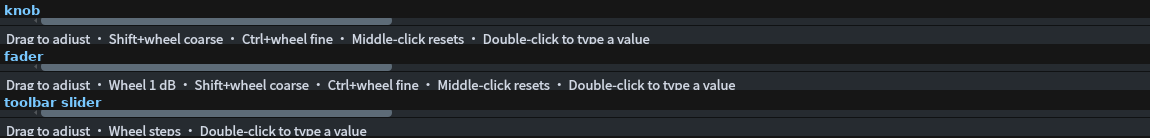
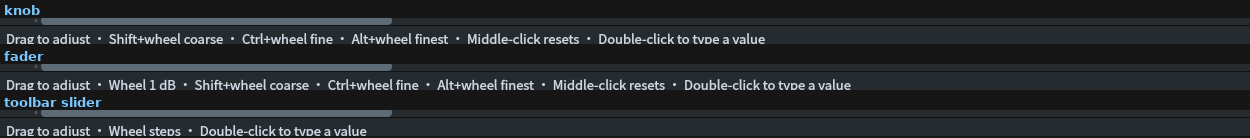
Make Alt+wheel adjust faders instead of ignoring it
determineAdjustmentDelta() returned 0 for Alt as a workaround for systems
that report Alt+wheel as a horizontal scroll, so the finest wheel step was
unavailable on faders while knobs used it. Use 0.05 dB (half of the control
key's step, matching the knob ratio) and handle the horizontal delta in
wheelEvent() instead, which is where the knobs already work around it.

Verified by reading the value tooltip: a plain notch moves 1 dB, an Alt
notch moves 0.05 dB.

diff --git a/src/gui/widgets/Fader.cpp b/src/gui/widgets/Fader.cpp
@@ -175,8 +175,9 @@ void Fader::leaveEvent(QEvent* event)
 QString Fader::statusHint() const
 {
 	return tr("Drag to adjust · Wheel 1 dB · Shift+wheel coarse · "
-			  "%1+wheel fine · Middle-click resets · Double-click to type a value")
-		.arg(UI_CTRL_KEY);
+			  "%1+wheel fine · %2+wheel finest · Middle-click resets · "
+			  "Double-click to type a value")
+		.arg(UI_CTRL_KEY, UI_ALT_KEY);
 }
 
 
@@ -289,7 +290,17 @@ void Fader::mouseReleaseEvent(QMouseEvent* mouseEvent)
 
 void Fader::wheelEvent (QWheelEvent* ev)
 {
-	const int direction = (ev->angleDelta().y() > 0 ? 1 : -1) * (ev->inverted() ? -1 : 1);
+	int delta = ev->angleDelta().y();
+
+	// Alt is a window manager modifier on some systems, so Qt may report the
+	// wheel as a horizontal scroll instead of a vertical one. Fall back to the
+	// horizontal delta so that Alt+wheel still adjusts the fader.
+	if (delta == 0)
+	{
+		delta = ev->angleDelta().x();
+	}
+
+	const int direction = (delta > 0 ? 1 : -1) * (ev->inverted() ? -1 : 1);
 
 	const float increment = determineAdjustmentDelta(ev->modifiers()) * direction;
 
@@ -313,8 +324,10 @@ float Fader::determineAdjustmentDelta(const Qt::KeyboardModifiers & modifiers) c
 	}
 	else if (modifiers & Qt::AltModifier)
 	{
-		// Work around a Qt bug in conjunction with the scroll wheel and the Alt key
-		return 0.f;
+		// Even finer than control, matching the knobs where Alt is the finest
+		// wheel step. It used to return 0 as a workaround for the Qt quirk that
+		// is now handled in wheelEvent().
+		return 0.05f;
 	}
 
 	return 1.f;

diff --git a/src/gui/widgets/FloatModelEditorBase.cpp b/src/gui/widgets/FloatModelEditorBase.cpp
@@ -297,8 +297,8 @@ void FloatModelEditorBase::leaveEvent(QEvent *event)
 QString FloatModelEditorBase::statusHint() const
 {
 	return tr("Drag to adjust · Shift+wheel coarse · %1+wheel fine · "
-			  "Middle-click resets · Double-click to type a value")
-		.arg(UI_CTRL_KEY);
+			  "%2+wheel finest · Middle-click resets · Double-click to type a value")
+		.arg(UI_CTRL_KEY, UI_ALT_KEY);
 }
 
 

diff --git a/doc/ui-ux-tasks.md b/doc/ui-ux-tasks.md
@@ -52,6 +52,7 @@ T0 全部可在一天内完成；T1 每项独立 PR；T2 需要先讨论。
 | T1-1 | 🚧 进行中 | `TrackView` 已改（截图逐像素对比 = 0 差异，主题覆盖测试通过） |
 | T1-10 | ✅ 已实现 | 仅编译验证；tooltip 需在交互式桌面悬停复核 |
 | T1-4 | ✅ 已实现 | 状态栏 + 三类控件悬停提示，截图验证（`t1-4-status-hints.png`） |
+| T1-3 | ✅ 已实现 | Alt+滚轮实测 0.05 dB（普通滚轮 1 dB） |
 
 ### 实施中发现并修正的两个问题
 
@@ -277,13 +278,22 @@ m_actionTextBold->setShortcut(keySequence(Qt::CTRL, Qt::Key_B));
 
 ---
 
-### T1-3 滚轮语义对齐
+### T1-3 滚轮语义对齐（已实现）
 
-**现象**：`Fader::determineAdjustmentDelta` 对 `Alt` 返回 0（`Fader.cpp:283-297`），而 `FloatModelEditorBase` 用 Alt 做"最细"（`FloatModelEditorBase.cpp:355`）。
+**现象**：`Fader::determineAdjustmentDelta` 对 `Alt` 返回 0（完全不响应），而旋钮用 Alt 做"最细"。
 
-**改动点**：`Fader.cpp:283-297` 让 Alt 走 0.1 dB 档（与 Ctrl 同档或更细），并保留 macOS 上 Qt 的 Alt 滚轮 quirk 兼容（参考 `FloatModelEditorBase.cpp:361-372` 的 `deltaX` 回退逻辑）。
+**实现**
+- Alt 档从 `0` 改为 **0.05 dB**（比 Ctrl 的 0.1 dB 细一倍，与旋钮"Alt 比 Ctrl 更细"的比例一致）。
+- 同时把旋钮里已有的 Alt 兼容逻辑搬到推子：某些系统会把 Alt+滚轮上报成水平滚动（`angleDelta().x()`），
+  `Fader::wheelEvent` 现在在 `y == 0` 时回退到 `x`，否则方向和幅度都会丢。
+- 状态栏文案同步加上 `Alt+wheel finest`。
 
-**验收**：同一个插件窗口里，旋钮与推子的 Shift/Ctrl/Alt 三档行为一致（粗/细/更细）；macOS 上按 Alt 滚动不出现方向反转。
+**实测**（Xephyr，抓值提示窗口读取模型值）：
+- 普通滚轮一格：`-4.04 dB` → 上一步基准 = -5.04 dB，即 **+1 dB**。
+- `Alt`+滚轮一格：`-4.04 → -3.99 dB`，即 **+0.05 dB**，不再是 0。
+
+**没有做**：滑块（`AutomatableSlider`）仍然不吃修饰键——它走 `QSlider` 默认实现，
+需要单独改造，见矩阵里的第 4 条。
 
 ---
 

diff --git a/doc/ui-ux-gestures.md b/doc/ui-ux-gestures.md
@@ -48,7 +48,7 @@
 | 滚轮 | 1 dB / 格 | `Fader.cpp:270-278` |
 | Shift + 滚轮 | 3 dB（粗） | `:283-287` |
 | Ctrl + 滚轮 | 0.1 dB（细） | `:288-292` |
-| **Alt + 滚轮** | **完全不响应**（返回 0） | `:293-297` |
+| **Alt + 滚轮** | 0.05 dB（最细；本分支改，原先忽略） | `Fader.cpp:300` |
 | 双击 | 就地输入 dB 值 | `Fader.cpp:243-247` |
 | 右键 | 菜单（同上） | `:163-170` |
 
@@ -71,7 +71,7 @@
 | --- | --- | --- | --- |
 | 1 | **Ctrl 在拖动上是"链接"，在滚轮上是"细调"** | 用户按 Ctrl 拖动想微调，结果拖出了一个链接 | 不改行为，改文案：tooltip 明确写"Ctrl+拖动=链接" |
 | 2 | Shift 在按下时是"复制参数"，在拖动中是"粗调/细调" | 想粗调却开始拖放 | 同上，文案说清 |
-| 3 | 推子 Alt+滚轮无响应，旋钮是"最细" | 同一手势两种结果 | 让推子 Alt 走 0.1 dB（T1-3） |
+| 3 | ~~推子 Alt+滚轮无响应，旋钮是"最细"~~ | 同一手势两种结果 | ✅ 已修：推子 Alt = 0.05 dB（T1-3） |
 | 4 | 滑块没有中键归位、没有链接手势、滚轮不吃修饰键 | 同一排控件行为不同 | 至少补中键归位与滚轮修饰键 |
 | 5 | 滑块判断 Ctrl 用的是硬编码 `Qt::ControlModifier`，旋钮用 `KBD_COPY_MODIFIER` | macOS 上不一致（⌘ vs Control） | 统一用 `KBD_COPY_MODIFIER` |
 
@@ -104,7 +104,7 @@
 | 改动 | 状态 |
 | --- | --- |
 | 双击弹出模态框 → 就地编辑（旋钮/推子/滑块统一） | ✅ 已实现，见 `InlineValueEditor` |
-| 推子 Alt+滚轮无响应 | 待改（T1-3） |
+| 推子 Alt+滚轮无响应 | ✅ 已改为 0.05 dB（T1-3） |
 | 滑块中键归位 / 修饰键滚轮 | 待评估 |
 
 ---
